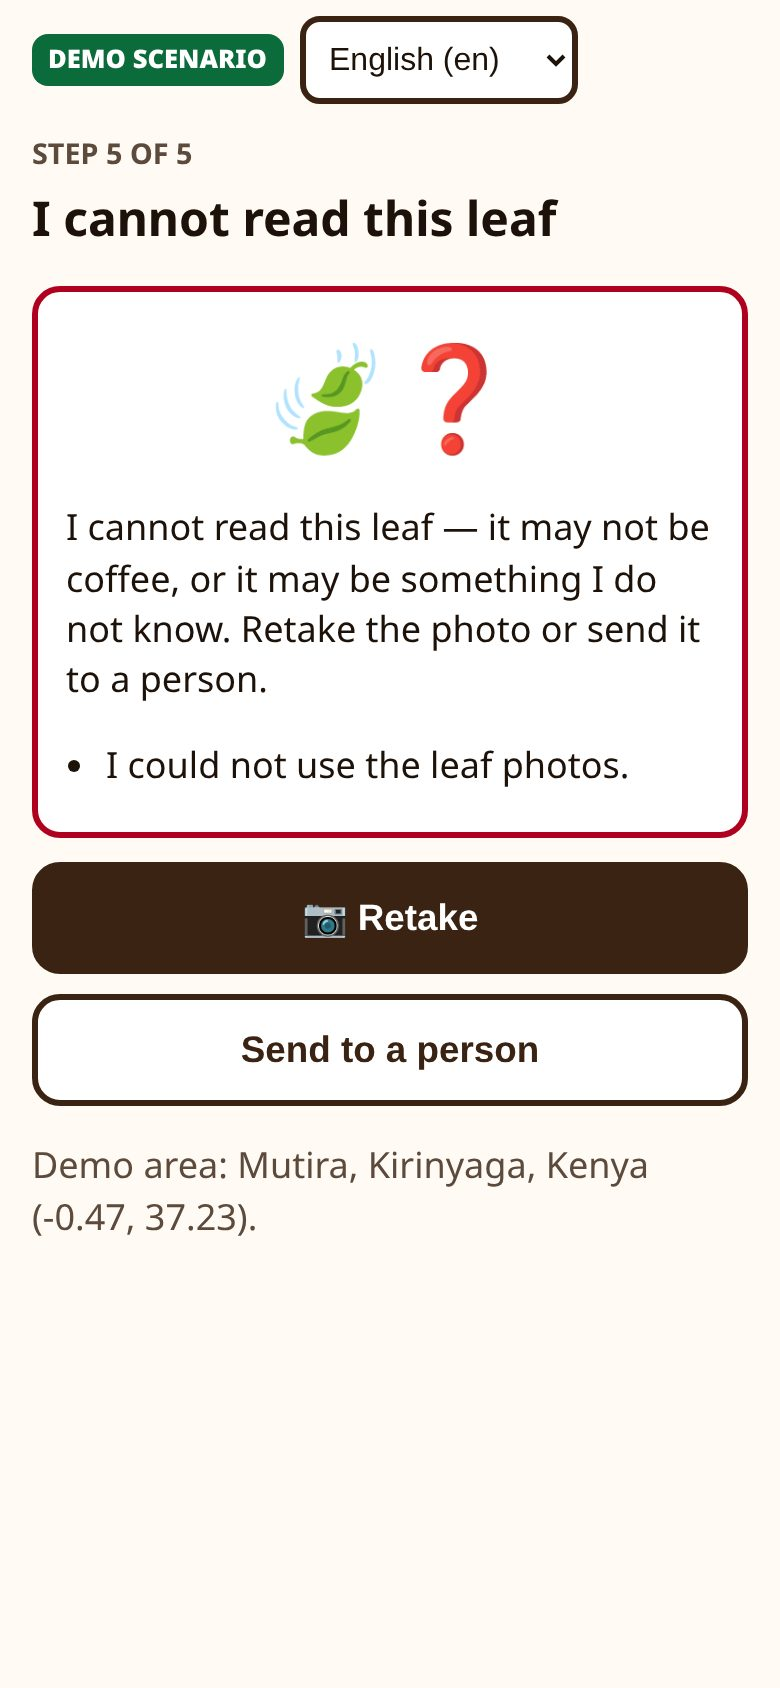
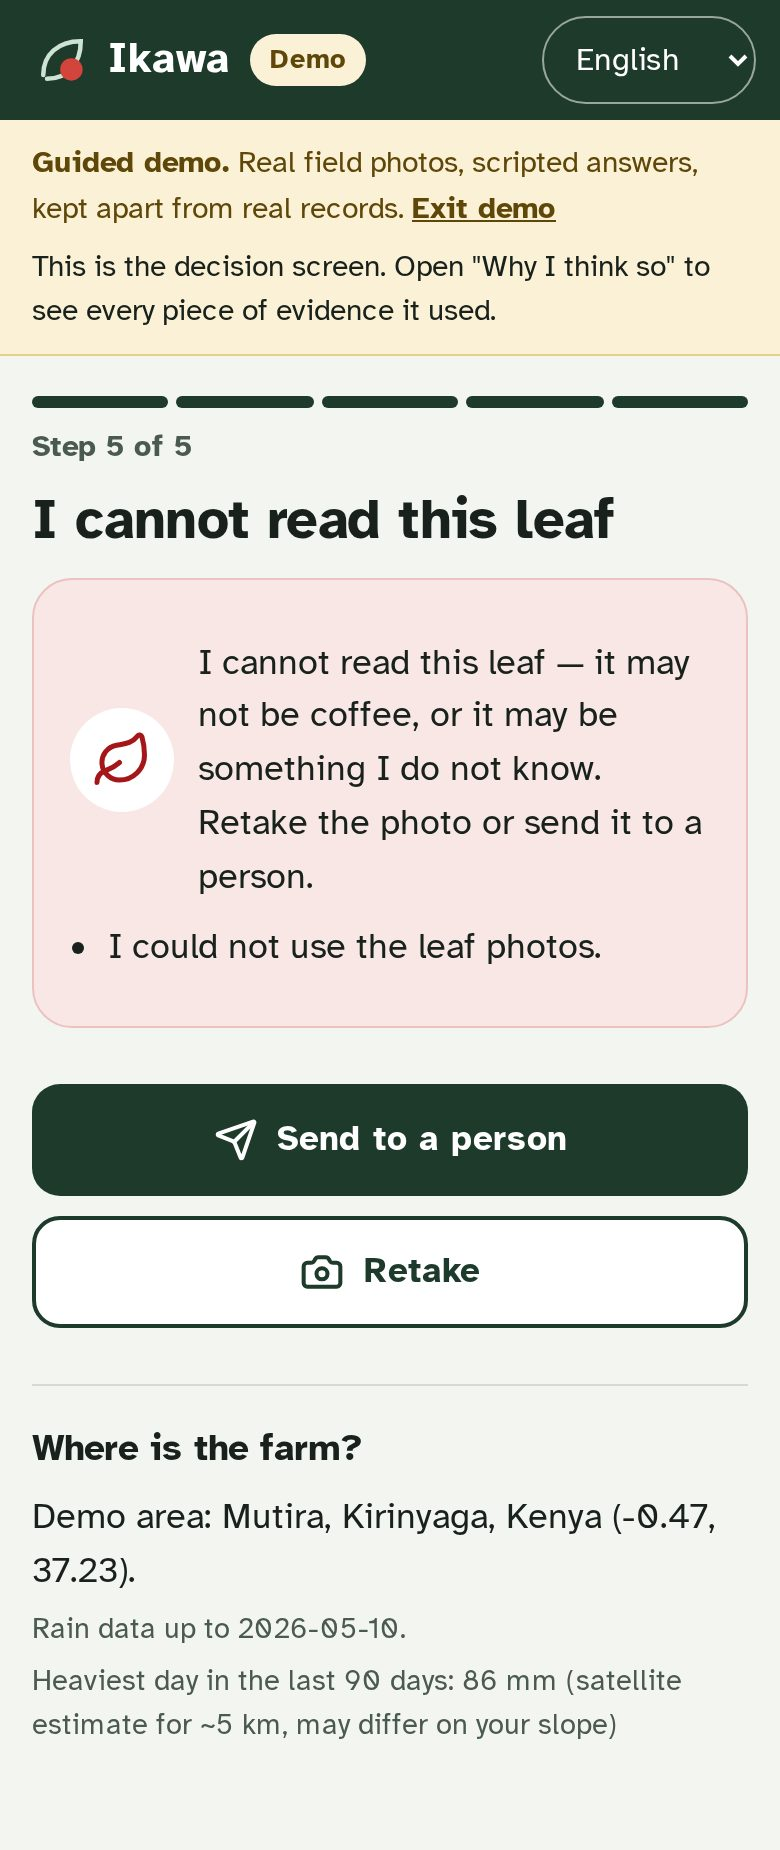
README and screenshots: new UI, guided demo entry with three cases

diff --git a/README.md b/README.md
@@ -7,7 +7,7 @@ Ikawa helps a smallholder coffee farmer with the question she actually has: *why
 | | |
 |---|---|
 | **Live app** | [ikawa-meek-0s-projects.vercel.app](https://ikawa-meek-0s-projects.vercel.app). Works offline after the first visit and can be installed on Android. |
-| **Try it in 1 minute** | [Demo: leaf-rust case](https://ikawa-meek-0s-projects.vercel.app/?demo=1) · [Demo: "cannot read this leaf" case](https://ikawa-meek-0s-projects.vercel.app/?demo=1&run=mite) · [all links](#links) |
+| **Try it in 1 minute** | The first screen offers three guided demo cases (no PIN, nothing saved to real records): [leaf rust](https://ikawa-meek-0s-projects.vercel.app/?demo=1#/photos) · [a leaf it cannot read](https://ikawa-meek-0s-projects.vercel.app/?demo=1&run=mite#/photos) · [healthy leaves](https://ikawa-meek-0s-projects.vercel.app/?demo=1&run=healthy#/photos) · [all links](#links) |
 | **Code** | [github.com/mehedi37/Ikawa](https://github.com/mehedi37/Ikawa) |
 | **Setting** | Kirinyaga county, Kenya (Mutira ward, ≈ −0.47°, 37.23°) |
 | **Language** | Kiswahili, machine-drafted and not yet checked by a native speaker, with English fallback. Adding a language means adding a pack. |
@@ -27,9 +27,10 @@ Ikawa helps a smallholder coffee farmer with the question she actually has: *why
 
 | What | Link | What you will see |
 |---|---|---|
-| Live app | [ikawa-meek-0s-projects.vercel.app](https://ikawa-meek-0s-projects.vercel.app) | The PIN screen, then home. On the first visit, choose any PIN of 4 or more digits (it encrypts the data on that device). Later visits on the same device need the same PIN. |
+| Live app | [ikawa-meek-0s-projects.vercel.app](https://ikawa-meek-0s-projects.vercel.app) | The first screen offers three guided demo cases, then the agent PIN. The demos need no PIN and run in a separate throwaway store. For the real flow, choose any PIN of 4 or more digits on the first visit (it encrypts the data on that device); later visits on the same device need the same PIN. |
 | Demo: leaf-rust case | [`/?demo=1`](https://ikawa-meek-0s-projects.vercel.app/?demo=1) | A scripted case with real leaf photos that ends on a ranked result and one action card |
 | Demo: "cannot read" case | [`/?demo=1&run=mite`](https://ikawa-meek-0s-projects.vercel.app/?demo=1&run=mite) | Mite-damaged leaves, then "I cannot read this leaf", then the one-SMS escalation |
+| Demo: healthy leaves | [`/?demo=1&run=healthy`](https://ikawa-meek-0s-projects.vercel.app/?demo=1&run=healthy) | Healthy leaves in both bags; it looks past the leaves to the heavy April rains |
 | Officer page | [`/#/officer`](https://ikawa-meek-0s-projects.vercel.app/#/officer) | Paste a case SMS, read it decoded, reply with a card code |
 | Cooperative page | [`/#/coop`](https://ikawa-meek-0s-projects.vercel.app/#/coop) | Stored cases, storage used, export |
 | Health / version | [`/health.json`](https://ikawa-meek-0s-projects.vercel.app/health.json) | Commit, build time, model SHA-256, data versions |
